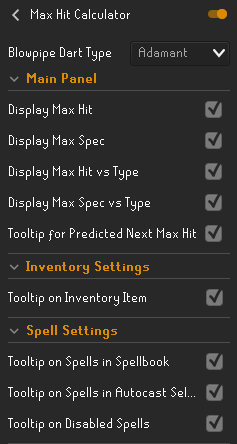
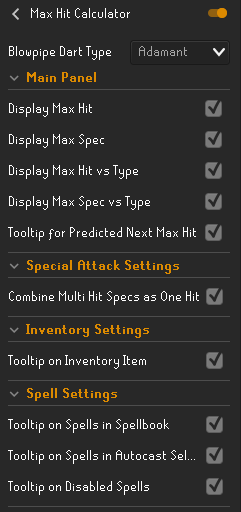
Added Webweaver Bow and Dragon Claws Specs

diff --git a/src/main/java/com/maxhitcalc/MaxSpec.java b/src/main/java/com/maxhitcalc/MaxSpec.java
@@ -183,29 +183,55 @@ public class MaxSpec
             return 1.25;
         }
 
+        if(weaponName.contains("Webweaver bow"))
+        {
+            return 1.4;
+        }
+
         return 0; // Not a spec weapon with a damage boost
     }
 
-    public static boolean checkForDoubleHitWeapon(Client client, String weaponName)
+    public static int getSpecMultiHit(Client client, String weaponName, int hit)
     {
         // Melee Double Hit Spec Weapons
         if(weaponName.contains("Dragon dagger"))
         {
-            return true;
+            return hit * 2;
+        }
+
+        if(weaponName.contains("Dragon claws"))
+        {
+            int first = hit - 1;
+            int second = (hit - (hit/2)) - 1;
+            int third = (hit - ((hit*3/4))) - 1;
+            int fourth = third + 1;
+
+            // Debug
+            client.addChatMessage(ChatMessageType.GAMEMESSAGE, "", "First: " + first, null);
+            client.addChatMessage(ChatMessageType.GAMEMESSAGE, "", "Second: " + second, null);
+            client.addChatMessage(ChatMessageType.GAMEMESSAGE, "", "Third: " + third, null);
+            client.addChatMessage(ChatMessageType.GAMEMESSAGE, "", "Fourth: " + fourth, null);
+
+            return first + second + third + fourth;
         }
 
         // Range Double Hit Spec Weapons
         if(weaponName.contains("Magic shortbow"))
         {
-            return true;
+            return hit * 2;
         }
 
         if (weaponName.contains("Dragon knife"))
         {
-            return true;
+            return hit * 2;
+        }
+
+        if(weaponName.contains("Webweaver bow"))
+        {
+            return hit * 4;
         }
 
         // else
-        return false;
+        return 0;
     }
 }

diff --git a/src/main/java/com/maxhitcalc/MaxHitCalcPlugin.java b/src/main/java/com/maxhitcalc/MaxHitCalcPlugin.java
@@ -151,7 +151,7 @@ public class MaxHitCalcPlugin extends Plugin
 		String weaponName = client.getItemDefinition(playerEquipment[EquipmentInventorySlot.WEAPON.getSlotIdx()].getId()).getName();
 
 		// Get Config Settings
-		boolean doubleHitSetting = config.displayDoubleHitWeaponsAsOneHit();
+		boolean doubleHitSetting = config.displayMultiHitWeaponsAsOneHit();
 
 		// Get Spec modifier
 		double specialAttackWeapon = MaxSpec.getSpecWeaponStat(client, weaponName, playerEquipment);
@@ -159,19 +159,17 @@ public class MaxHitCalcPlugin extends Plugin
 		// Debug
 		//client.addChatMessage(ChatMessageType.GAMEMESSAGE, "", "Spec Modifier: " + specialAttackWeapon, null);
 
+		double maxHit = calculateMaxHit();
 		if(specialAttackWeapon != 0)
 		{
 			// Get Max hit then calculate Spec
-			double maxHit = calculateMaxHit();
 			double maxSpecHit = maxHit * specialAttackWeapon;
 
 			return maxSpecHit;
 		}
-		else if (doubleHitSetting && MaxSpec.checkForDoubleHitWeapon(client, weaponName))
+		else if (doubleHitSetting && (MaxSpec.getSpecMultiHit(client, weaponName, (int)Math.floor(maxHit)) != 0))
 		{
 			// Niche cases where Special Attack does not increase Damage, but does hit twice. E.g: Dragon Knives, Magic Shortbow
-			double maxHit = calculateMaxHit();
-
 			return maxHit;
 		}
 

diff --git a/src/main/java/com/maxhitcalc/MaxHitCalcOverlay.java b/src/main/java/com/maxhitcalc/MaxHitCalcOverlay.java
@@ -76,24 +76,17 @@ public class MaxHitCalcOverlay extends OverlayPanel
 
         int maxHit = (int)Math.floor(plugin.calculateMaxHit());
         int maxSpec = (int)Math.floor(plugin.calculateMaxSpec());
-        if(config.displayDoubleHitWeaponsAsOneHit())
+        if(config.displayMultiHitWeaponsAsOneHit())
         {
-            if(MaxSpec.checkForDoubleHitWeapon(client, weaponName))
-            {
-                maxSpec = (int)(Math.floor(maxSpec) * 2);
-            }
+            maxSpec = MaxSpec.getSpecMultiHit(client, weaponName, maxSpec);
         }
 
         int maxVsType = (int)Math.floor(plugin.calculateMaxAgainstType());
 
-
         int maxSpecVsType = (int)Math.floor(plugin.calculateMaxSpecAgainstType());
-        if(config.displayDoubleHitWeaponsAsOneHit())
+        if(config.displayMultiHitWeaponsAsOneHit())
         {
-            if(MaxSpec.checkForDoubleHitWeapon(client, weaponName))
-            {
-                maxSpecVsType = (int)(Math.floor(maxSpecVsType) * 2);
-            }
+            maxSpecVsType = MaxSpec.getSpecMultiHit(client, weaponName, maxSpecVsType);
         }
 
         // Don't Display if 0, or -1 (error)

diff --git a/src/main/java/com/maxhitcalc/MaxHitCalcConfig.java b/src/main/java/com/maxhitcalc/MaxHitCalcConfig.java
@@ -159,12 +159,12 @@ public interface MaxHitCalcConfig extends Config
 	// Show Predicted Requirements for next Max Hit
 	@ConfigItem(
 			keyName = "displayDoubleHitWeaponsAsOneHit",
-			name = "Combine Two Hit Specs as One Hit",
+			name = "Combine Multi Hit Specs as One Hit",
 			description = "Weapons like the DDS will display as one hit calculation.",
 			position = 0,
 			section = specSettings
 	)
-	default boolean displayDoubleHitWeaponsAsOneHit()
+	default boolean displayMultiHitWeaponsAsOneHit()
 	{
 		return true;
 	}
